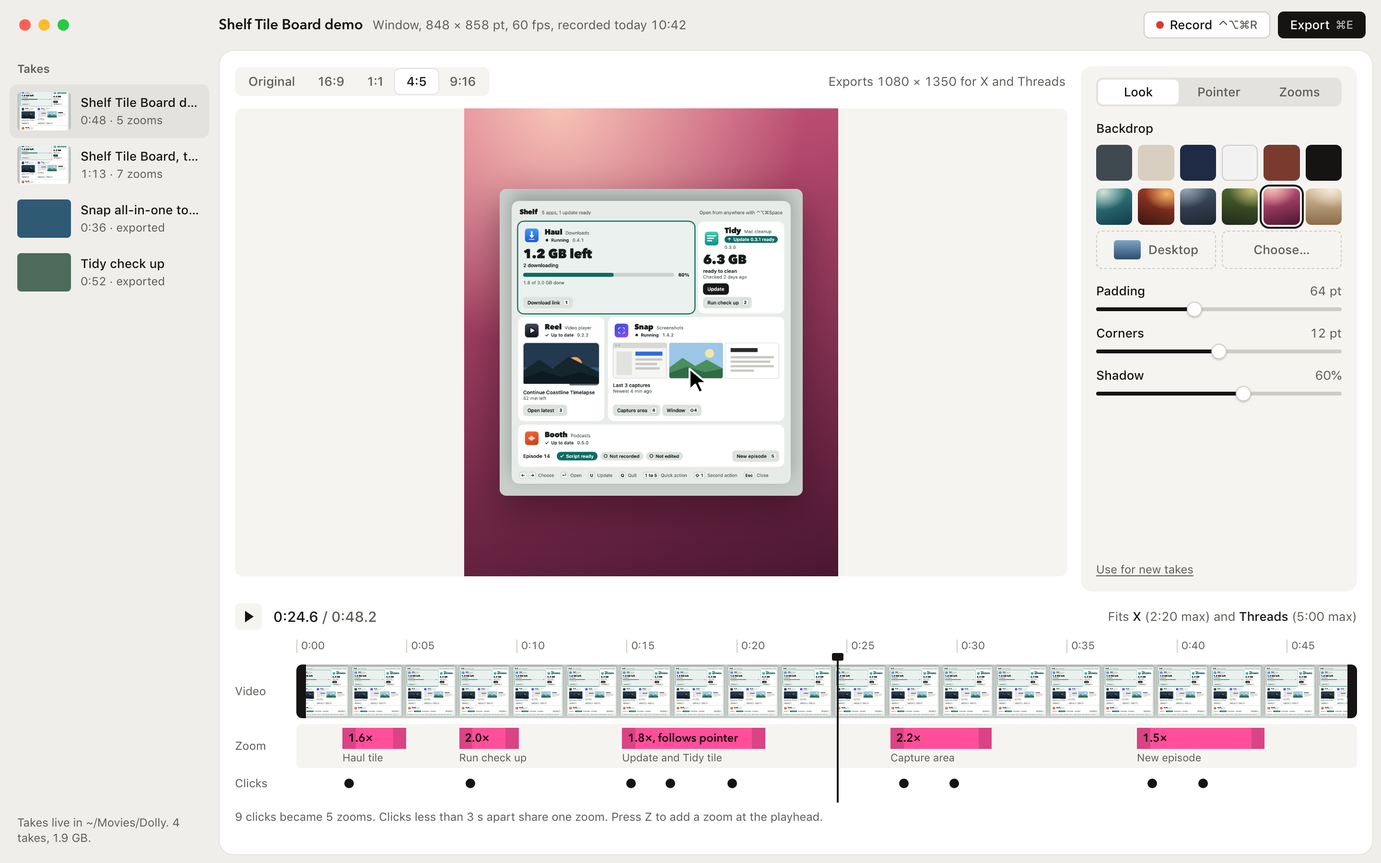
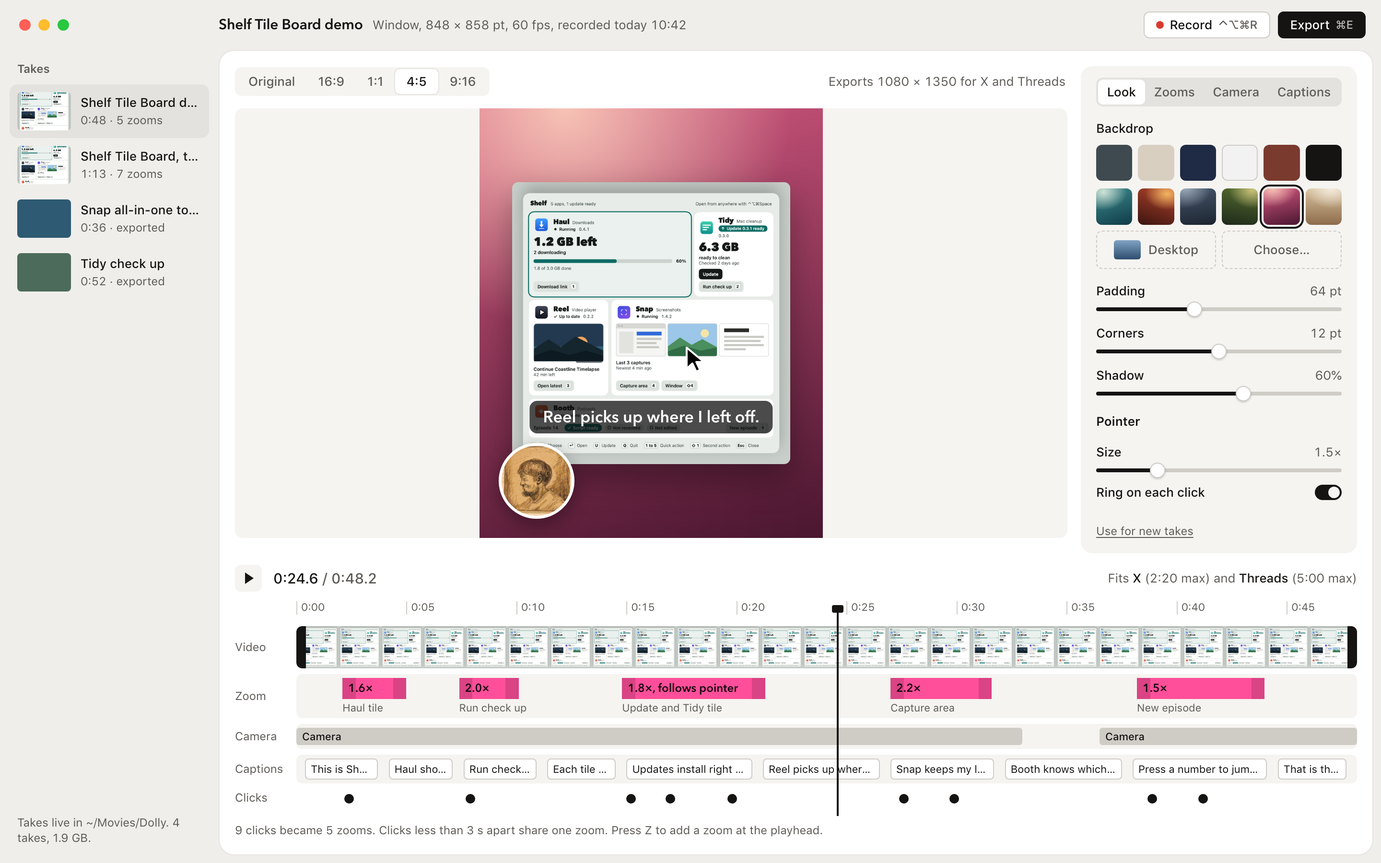
Studio pass: camera and captions in the mockups and spec

diff --git a/docs/mockup/studio/studio.html b/docs/mockup/studio/studio.html
@@ -6,7 +6,8 @@
 <style>
 /* The studio pass on direction A (spike marks). Same window, toolbar, sidebar and timeline as
    a-spike-marks.html; the shape bar gains every shape, the inspector becomes Look, Pointer and
-   Zoom tabs, and Look gets the backdrop library. ?theme=light|dark&view=look|zoom */
+   Zooms, Camera and Captions tabs, and Look gets the backdrop library and the pointer.
+   ?theme=light|dark&view=look|zoom|camera|captions */
 :root {
   --frame: #EFEEEB; --sheet: #FFFFFF; --raised: #F5F4F1; --active: #E4E2DE;
   --border: #E6E4E0; --control: #CFCCC6;
@@ -56,15 +57,15 @@ body { background: var(--frame); color: var(--text); font: 13px/18px var(--font)
 .take span { color: var(--muted); font-size: 12px; }
 .side .foot { position: absolute; left: 18px; right: 18px; bottom: 18px; color: var(--muted); font-size: 12px; line-height: 16px; }
 .sheet { position: absolute; left: 228px; top: 52px; right: 8px; bottom: 8px; background: var(--sheet); border: 1px solid var(--border); border-radius: 16px; overflow: hidden; }
-.work { position: absolute; left: 16px; top: 16px; right: 320px; height: 548px; }
+.work { position: absolute; left: 16px; top: 16px; right: 320px; height: 508px; }
 .shapes { display: flex; align-items: center; gap: 12px; height: 32px; }
 .seg { display: inline-flex; background: var(--raised); border-radius: 7px; padding: 2px; }
 .seg span { padding: 0 12px; height: 26px; line-height: 26px; border-radius: 5px; color: var(--muted); font-weight: 500; white-space: nowrap; }
 .seg span.on { background: var(--sheet); color: var(--text); box-shadow: 0 0 0 1px var(--border); }
 .shapes .note { color: var(--muted); margin-left: auto; }
 /* The stage area is 868 x 488; the output frame sits centered in it at the chosen shape. */
-.area { position: relative; margin-top: 12px; width: 868px; height: 488px; border-radius: 8px; background: var(--raised); overflow: hidden; }
-.out { position: absolute; top: 0; height: 488px; overflow: hidden; }
+.area { position: relative; margin-top: 12px; width: 868px; height: 448px; border-radius: 8px; background: var(--raised); overflow: hidden; }
+.out { position: absolute; top: 0; height: 448px; overflow: hidden; }
 .rec { position: absolute; background: center/cover no-repeat; }
 .pointer { position: absolute; width: 22px; height: 30px; }
 .scrimbox { position: absolute; box-shadow: 0 0 0 2000px var(--scrim); }
@@ -77,9 +78,9 @@ body { background: var(--frame); color: var(--text); font: 13px/18px var(--font)
 .click { position: absolute; width: 16px; height: 16px; border-radius: 50%; border: 2px solid #fff; box-shadow: 0 0 0 1px rgba(0,0,0,.4); }
 .stage-meta { position: absolute; left: 12px; bottom: 10px; color: #fff; font-size: 12px; background: rgba(0,0,0,.45); padding: 2px 8px; border-radius: 4px; }
 /* inspector */
-.insp { position: absolute; top: 16px; right: 16px; width: 288px; height: 548px; background: var(--raised); border-radius: 12px; padding: 12px 16px 16px; }
+.insp { position: absolute; top: 16px; right: 16px; width: 288px; height: 508px; background: var(--raised); border-radius: 12px; padding: 12px 16px 16px; }
 .tabs { display: flex; background: var(--active); border-radius: 7px; padding: 2px; }
-.tabs span { flex: 1; text-align: center; height: 26px; line-height: 26px; border-radius: 5px; color: var(--muted); font-weight: 500; }
+.tabs span { flex: 1 1 auto; padding: 0 6px; text-align: center; height: 26px; line-height: 26px; border-radius: 5px; color: var(--muted); font-weight: 500; }
 .tabs span.on { background: var(--sheet); color: var(--text); }
 .tabs span em { font-style: normal; color: var(--muted); font-weight: 400; margin-left: 4px; }
 .insp h3 { font: 600 16px/20px var(--display); letter-spacing: -.01em; display: flex; align-items: center; gap: 8px; margin-top: 16px; }
@@ -110,7 +111,7 @@ body { background: var(--frame); color: var(--text); font: 13px/18px var(--font)
 .link { color: var(--muted); text-decoration: underline; text-underline-offset: 2px; }
 .foot-link { position: absolute; left: 16px; right: 16px; bottom: 14px; display: flex; justify-content: space-between; color: var(--muted); font-size: 12px; }
 /* timeline (unchanged from A) */
-.tl { position: absolute; left: 16px; right: 16px; bottom: 16px; height: 248px; }
+.tl { position: absolute; left: 16px; right: 16px; bottom: 16px; height: 288px; }
 .tl-head { display: flex; align-items: center; gap: 12px; height: 32px; }
 .play { width: 28px; height: 28px; border-radius: 6px; background: var(--raised); display: grid; place-items: center; }
 .play::before { content: ""; border-left: 9px solid var(--text); border-top: 6px solid transparent; border-bottom: 6px solid transparent; margin-left: 2px; }
@@ -123,7 +124,7 @@ body { background: var(--frame); color: var(--text); font: 13px/18px var(--font)
 .track { position: relative; }
 .ruler { height: 20px; color: var(--muted); font-size: 11px; }
 .ruler span { position: absolute; top: 0; padding-left: 4px; border-left: 1px solid var(--control); height: 14px; line-height: 12px; }
-.video { height: 56px; border-radius: 6px; background: var(--raised) left center / 56px 56px repeat-x; overflow: hidden; }
+.video { height: 44px; border-radius: 6px; background: var(--raised) left center / 44px 44px repeat-x; overflow: hidden; }
 .trim { position: absolute; top: 0; bottom: 0; width: 10px; background: var(--text); }
 .trim.l { left: 0; border-radius: 6px 0 0 6px; } .trim.r { right: 0; border-radius: 0 6px 6px 0; }
 .zoom { height: 46px; background: var(--raised); border-radius: 6px; }
@@ -134,9 +135,22 @@ body { background: var(--frame); color: var(--text); font: 13px/18px var(--font)
 .mark .ramp.in { left: 0; } .mark .ramp.out { right: 0; }
 .mark span { position: relative; }
 .mark em { position: absolute; left: 0; top: 24px; font: 400 11px/14px var(--font); color: var(--muted); font-style: normal; }
-.clicks { height: 20px; }
+.clicks { height: 18px; }
+.cam { height: 26px; background: var(--raised); border-radius: 6px; }
+.cam b { position: absolute; top: 4px; height: 18px; left: calc(var(--a) / var(--dur) * 100%); width: calc((var(--b) - var(--a)) / var(--dur) * 100%); background: var(--control); color: var(--text); border-radius: 3px; font: 500 11px/18px var(--font); padding: 0 6px; overflow: hidden; white-space: nowrap; }
+.cam b.small { opacity: .55; }
+.cap { height: 30px; background: var(--raised); border-radius: 6px; }
+.cap b { position: absolute; top: 4px; height: 22px; left: calc(var(--a) / var(--dur) * 100%); width: calc((var(--b) - var(--a)) / var(--dur) * 100% - 2px); background: var(--sheet); border: 1px solid var(--control); border-radius: 4px; font: 400 11px/20px var(--font); padding: 0 5px; overflow: hidden; white-space: nowrap; text-overflow: ellipsis; color: var(--text); }
+.cap b.on { border: 2px solid var(--text); line-height: 18px; }
+.bubble { position: absolute; background: center 30% / cover no-repeat; border: 3px solid #fff; box-shadow: 0 6px 18px rgba(0,0,0,.35); }
+.caption { position: absolute; left: 50%; transform: translateX(-50%); padding: 6px 14px; border-radius: 8px; background: rgba(12,12,12,.74); color: #fff; font: 600 17px/22px var(--display); white-space: nowrap; }
+.corners { display: grid; grid-template-columns: 22px 22px; gap: 4px; }
+.corners i { width: 22px; height: 16px; border-radius: 3px; border: 1px solid var(--control); background: var(--sheet); }
+.corners i.on { background: var(--text); border-color: var(--text); }
+.field { margin-top: 8px; padding: 6px 8px; min-height: 52px; border-radius: 6px; border: 1px solid var(--control); background: var(--sheet); line-height: 18px; }
+.insp h4 { font: 600 13px/18px var(--font); margin-top: 18px; }
 .clicks i { position: absolute; top: 5px; left: calc(var(--t) / var(--dur) * 100%); width: 10px; height: 10px; margin-left: -5px; border-radius: 50%; background: var(--text); }
-.playhead { position: absolute; top: -150px; bottom: -4px; left: calc(var(--p) / var(--dur) * 100%); width: 2px; margin-left: -1px; background: var(--text); }
+.playhead { position: absolute; top: -214px; bottom: -4px; left: calc(var(--p) / var(--dur) * 100%); width: 2px; margin-left: -1px; background: var(--text); }
 .playhead::before { content: ""; position: absolute; top: -2px; left: -5px; width: 12px; height: 8px; background: var(--text); border-radius: 2px; }
 .hint { margin-top: 10px; color: var(--muted); font-size: 12px; }
 </style>
@@ -180,6 +194,10 @@ body { background: var(--frame); color: var(--text); font: 13px/18px var(--font)
       <div class="track video ft-strip"><i class="trim l"></i><i class="trim r"></i></div>
       <span class="lname">Zoom</span>
       <div class="track zoom" id="marks"></div>
+      <span class="lname">Camera</span>
+      <div class="track cam" id="cam"></div>
+      <span class="lname">Captions</span>
+      <div class="track cap" id="caps"></div>
       <span class="lname">Clicks</span>
       <div class="track clicks">
         <i style="--t:2.4"></i><i style="--t:7.9"></i><i style="--t:15.2"></i><i style="--t:17.0"></i><i style="--t:19.8"></i><i style="--t:27.6"></i><i style="--t:29.9"></i><i style="--t:38.9"></i><i style="--t:41.2"></i>
@@ -193,85 +211,133 @@ body { background: var(--frame); color: var(--text); font: 13px/18px var(--font)
 <script>
 const q = new URLSearchParams(location.search);
 const theme = q.get('theme') || 'light';
-const view = q.get('view') || 'look';
+const view = q.get('view') || 'look';   // look | zoom | camera | captions
 document.documentElement.dataset.theme = theme;
 const FOOT = `../assets/footage-${theme}.png`, FW = 1696, FH = 1716;
+// Stand-in face for the camera: "Portrait of a Smiling Man", Theo van Doesburg, 1905, public domain.
+const FACE = '../assets/portrait-of-a-smiling-man.jpg';
 
-// Look: 4:5 on the Rose backdrop, playing at 0:24.6. Zoom: 16:9 on Harbor, Aim mode on zoom 2.
-const look = view === 'look';
-const shape = look ? '4:5' : '16:9';
-const playhead = look ? 24.6 : 8.6;
-const backdrop = look ? 'rose' : 'harbor';
+const V = {
+  look:     { shape: '4:5',  t: 24.6, bd: 'rose',   tab: 'Look' },
+  zoom:     { shape: '16:9', t: 8.6,  bd: 'harbor', tab: 'Zooms' },
+  camera:   { shape: '16:9', t: 12.4, bd: 'slate',  tab: 'Camera' },
+  captions: { shape: '9:16', t: 12.4, bd: 'moss',   tab: 'Captions' },
+}[view];
+// The camera and captions are on for this take; Aim mode shows the bare recording.
+const showCamera = view !== 'zoom';
+const showCaption = view !== 'zoom';
 const shapes = { 'Original': [848, 858], '16:9': [16, 9], '1:1': [1, 1], '4:5': [4, 5], '9:16': [9, 16] };
 const sizes = { 'Original': '1696 × 1716', '16:9': '1920 × 1080', '1:1': '1080 × 1080', '4:5': '1080 × 1350', '9:16': '1080 × 1920' };
-document.getElementById('shapes').innerHTML = Object.keys(shapes).map(s => `<span class="${s === shape ? 'on' : ''}">${s}</span>`).join('');
-document.getElementById('shape-note').textContent = `Exports ${sizes[shape]} for X and Threads`;
-document.getElementById('time').innerHTML = `${look ? '0:24.6' : '0:08.6'} <span>/ 0:48.2</span>`;
-document.getElementById('playhead').style.setProperty('--p', playhead);
+const fmt = t => `${Math.floor(t / 60)}:${(t % 60).toFixed(1).padStart(4, '0')}`;
+document.getElementById('shapes').innerHTML = Object.keys(shapes).map(x => `<span class="${x === V.shape ? 'on' : ''}">${x}</span>`).join('');
+document.getElementById('shape-note').textContent = `Exports ${sizes[V.shape]} for X and Threads`;
+document.getElementById('time').innerHTML = `${fmt(V.t)} <span>/ 0:48.2</span>`;
+document.getElementById('playhead').style.setProperty('--p', V.t);
 document.getElementById('ruler').innerHTML = [0,5,10,15,20,25,30,35,40,45].map(t => `<span style="left:calc(${t}/48.2*100%)">0:${String(t).padStart(2,'0')}</span>`).join('');
 const marks = [[2.1,5.0,'1.6×','Haul tile'],[7.4,10.1,'2.0×','Run check up'],[14.8,21.3,'1.8×, follows pointer','Update and Tidy tile'],[27.0,31.6,'2.2×','Capture area'],[38.2,44.0,'1.5×','New episode']];
-document.getElementById('marks').innerHTML = marks.map((m, i) => `<div class="mark${!look && i === 1 ? ' on' : ''}" style="--a:${m[0]};--b:${m[1]};--r:.6"><i class="ramp in"></i><i class="ramp out"></i><span>${m[2]}</span><em>${m[3]}</em></div>`).join('');
+document.getElementById('marks').innerHTML = marks.map((m, i) => `<div class="mark${view === 'zoom' && i === 1 ? ' on' : ''}" style="--a:${m[0]};--b:${m[1]};--r:.6"><i class="ramp in"></i><i class="ramp out"></i><span>${m[2]}</span><em>${m[3]}</em></div>`).join('');
+// Camera on for the whole take except 33.0 to 36.5, which the owner hid.
+document.getElementById('cam').innerHTML = `<b style="--a:0;--b:33.0">Camera</b><b style="--a:36.5;--b:48.2">Camera</b>`;
+// Illustrative narration for the Shelf demo, as the transcriber would split it.
+const caps = [[0.4,3.8,'This is Shelf, my launcher for every app.'],[4.2,7.2,'Haul shows what is downloading.'],[7.6,11.0,'Run check up tells Tidy to scan again.'],[11.4,14.6,'Each tile has its own quick actions.'],[15.0,20.8,'Updates install right from the board.'],[21.2,26.6,'Reel picks up where I left off.'],[27.0,31.8,'Snap keeps my last three captures.'],[32.2,37.6,'Booth knows which episode is next.'],[38.0,44.2,'Press a number to jump to any app.'],[44.6,47.8,'That is the whole board.']];
+const current = caps.find(c => V.t >= c[0] && V.t <= c[1]);
+document.getElementById('caps').innerHTML = caps.map(c => `<b class="${view === 'captions' && c === current ? 'on' : ''}" style="--a:${c[0]};--b:${c[1]}">${c[2]}</b>`).join('');
 
-// Output frame in the 868 x 488 area.
+// Output frame in the 868 x 448 stage area.
 const area = document.getElementById('area');
-const [sw, sh] = shapes[shape];
-const H = 488, W = Math.round(H * sw / sh);
+const [sw, sh] = shapes[V.shape];
+const H = 448, W = Math.min(868, Math.round(H * sw / sh));
+const ox = (868 - W) / 2;
 const out = document.createElement('div');
 out.className = 'out';
-out.style.cssText = `left:${(868 - W) / 2}px;width:${W}px;background:var(--bd-${backdrop})`;
+out.style.cssText = `left:${ox}px;width:${W}px;background:var(--bd-${V.bd})`;
 area.appendChild(out);
-// Padding 64 pt at 1080 px on the shorter side, corners 12 pt, shadow 60.
-const px = Math.min(W, H) / 1080, pad = 64 * px * 1.6;
-const s = Math.min((W - 2 * pad) / FW, (H - 2 * pad) / FH);
-const rw = FW * s, rh = FH * s, rx = (W - rw) / 2, ry = (H - rh) / 2;
+const short = Math.min(W, H), px = short / 1080, pad = 64 * px * 1.6;
+const sc = Math.min((W - 2 * pad) / FW, (H - 2 * pad) / FH);
+const rw = FW * sc, rh = FH * sc, rx = (W - rw) / 2, ry = (H - rh) / 2;
+const rec = `<div class="rec ft" style="left:${rx}px;top:${ry}px;width:${rw}px;height:${rh}px;border-radius:${12 * px * 1.6}px;box-shadow:0 ${rw*.05}px ${rw*.12}px rgba(0,0,0,.35)"></div>`;
+const pointer = `<svg class="pointer" style="left:${rx + rw * .62}px;top:${ry + rh * .58}px" viewBox="0 0 22 30"><path d="M2 2 L2 24 L8 18.5 L12 27 L16 25.3 L12 17 L20 17 Z" fill="#000" stroke="#fff" stroke-width="2" stroke-linejoin="round"/></svg>`;
 
-if (look) {
-  // Play mode inside zoom 4 (2.2x on Capture area) would crop; at 0:24.6 the camera is between zooms, at 1x.
-  out.innerHTML = `<div class="rec ft" style="left:${rx}px;top:${ry}px;width:${rw}px;height:${rh}px;border-radius:${12 * px * 1.6}px;box-shadow:0 ${rw*.05}px ${rw*.12}px rgba(40,6,20,.45)"></div>
-    <svg class="pointer" style="left:${rx + rw * .62}px;top:${ry + rh * .58}px" viewBox="0 0 22 30"><path d="M2 2 L2 24 L8 18.5 L12 27 L16 25.3 L12 17 L20 17 Z" fill="#000" stroke="#fff" stroke-width="2" stroke-linejoin="round"/></svg>`;
-} else {
-  // Aim mode: the whole recording at 1x with the scrim outside zoom 2's view and the spike corners.
+if (view === 'zoom') {
   const tx = .75, ty = .37, z = 2.0, vw = W / z, vh = H / z;
-  // Clamped to the recording, the way the engine clamps: a view wider than it centers on it.
   const clamp = (c, v, lo, len) => v >= len ? lo + len / 2 : Math.min(Math.max(c, lo + v / 2), lo + len - v / 2);
   const cx = clamp(rx + tx * rw, vw, rx, rw), cy = clamp(ry + ty * rh, vh, ry, rh);
-  const L = (868 - W) / 2 + cx - vw / 2, T = cy - vh / 2;
-  out.innerHTML = `<div class="rec ft" style="left:${rx}px;top:${ry}px;width:${rw}px;height:${rh}px;border-radius:${12 * px * 1.6}px;box-shadow:0 ${rw*.04}px ${rw*.1}px rgba(0,0,0,.35)"></div>`;
+  const L = ox + cx - vw / 2, T = cy - vh / 2;
+  out.innerHTML = rec;
   area.insertAdjacentHTML('beforeend', `<div class="scrimbox" style="left:${L}px;top:${T}px;width:${vw}px;height:${vh}px"></div>
     <div class="tape-label" style="left:${L}px;top:${T - 30}px">2.0×  Run check up</div>
     <div class="spike" style="position:absolute;left:${L}px;top:${T}px;width:${vw}px;height:${vh}px"><i></i><i></i><i></i><i></i></div>
-    <div class="click" style="left:${(868 - W) / 2 + rx + tx * rw - 8}px;top:${ry + ty * rh - 8}px"></div>
+    <div class="click" style="left:${ox + rx + tx * rw - 8}px;top:${ry + ty * rh - 8}px"></div>
     <div class="stage-meta num">Drag inside the corners to re-aim. Drag a corner to change depth.</div>`);
+} else {
+  let html = rec + pointer;
+  if (showCamera) {
+    // 22% of the short side, bottom-left, inset by the padding.
+    // 9:16 here keeps the camera top-left, so the caption has the band under the recording.
+    const d = Math.round(short * .22), m = Math.round(pad * .6), top = view === 'captions' ? m : H - d - m;
+    html += `<div class="bubble" style="width:${d}px;height:${d}px;left:${m}px;top:${top}px;border-radius:50%;background-image:url(${FACE})"></div>`;
+  }
+  if (showCaption && current) {
+    // The rule from the spec: a bottom caption moves above a bottom camera.
+    const d = Math.round(short * .22), m = Math.round(pad * .6);
+    const bottom = view === 'captions' ? Math.round((H - ry - rh) / 2 - 30) : m + d + 10;
+    html += `<div class="caption" style="bottom:${bottom}px;font-size:${view === 'captions' ? 15 : 17}px;white-space:${view === 'captions' ? 'normal' : 'nowrap'};width:${view === 'captions' ? Math.round(W * .82) + 'px' : 'auto'};text-align:center">${current[2]}</div>`;
+  }
+  out.innerHTML = html;
 }
 
 const slider = (label, value, frac, ticks) => `<div class="group"><label>${label}<span class="num">${value}</span></label>
   <div class="slider"><b style="width:${frac * 100}%"></b><i style="left:${frac * 100}%"></i></div>${ticks ? `<div class="ticks num">${ticks.map(t => `<span>${t}</span>`).join('')}</div>` : ''}</div>`;
-const tabs = on => `<div class="tabs">${['Look', 'Pointer', 'Zoom'].map(t => `<span class="${t === on ? 'on' : ''}">${t === 'Zoom' ? 'Zooms' : t}</span>`).join('')}</div>`;
+const toggle = (label, on = true) => `<div class="row"><label>${label}</label><span class="toggle${on ? '' : ' off'}"></span></div>`;
+const seg = (items, on) => `<div class="full"><div class="seg">${items.map(i => `<span class="${i === on ? 'on' : ''}">${i}</span>`).join('')}</div></div>`;
+const tabs = on => `<div class="tabs">${['Look', 'Zooms', 'Camera', 'Captions'].map(t => `<span class="${t === on ? 'on' : ''}">${t}</span>`).join('')}</div>`;
 const flats = ['#3E4A4F', '#D9CFC0', '#1F2A44', '#F2F2F2', '#7A3B2E', '#151413'];
 const grads = ['harbor', 'ember', 'slate', 'moss', 'rose', 'sand'];
 const insp = document.getElementById('insp');
-if (look) {
-  insp.innerHTML = `${tabs('Look')}
+const panels = {
+  look: () => `${tabs('Look')}
     <div class="group"><label>Backdrop</label>
       <div class="bd">${flats.map(c => `<i class="${c === '#F2F2F2' ? 'light' : ''}" style="background:${c}"></i>`).join('')}</div>
-      <div class="bd">${grads.map(g => `<i class="${g === backdrop ? 'on' : ''}" style="background:var(--bd-${g})"></i>`).join('')}</div>
+      <div class="bd">${grads.map(g => `<i class="${g === V.bd ? 'on' : ''}" style="background:var(--bd-${g})"></i>`).join('')}</div>
       <div class="pics"><span class="pic"><span class="mini"></span>Desktop</span><span class="pic">Choose…</span></div>
     </div>
     ${slider('Padding', '64 pt', 64 / 160)}
     ${slider('Corners', '12 pt', 12 / 24)}
     ${slider('Shadow', '60%', .6)}
-    <div class="foot-link"><span class="link">Use for new takes</span></div>`;
-} else {
-  insp.innerHTML = `${tabs('Zoom')}
+    <h4>Pointer</h4>
+    ${slider('Size', '1.5×', .25)}
+    ${toggle('Ring on each click')}
+    <div class="foot-link"><span class="link">Use for new takes</span></div>`,
+  zoom: () => `${tabs('Zooms')}
     <h3><span class="swatch-tape"></span>Zoom 2 of 5</h3>
     <p class="sub num">0:07.4 to 0:10.1, 2.7 s. From your click at 0:07.9.</p>
-    <div class="full"><div class="seg"><span class="on">Hold on the click</span><span>Follow pointer</span></div></div>
+    ${seg(['Hold on the click', 'Follow pointer'], 'Hold on the click')}
     ${slider('Depth', '2.0×', .5, ['1×', '2×', '3×'])}
     ${slider('Move in', '0.6 s', (0.6 - .2) / 1.3)}
     ${slider('Move out', '0.5 s', (0.5 - .2) / 1.3)}
     <div class="row" style="margin-top:14px"><span class="link">Remove this zoom</span><span class="kbd">⌫</span></div>
-    <div class="foot-link"><span>Tab selects the next zoom</span></div>`;
-}
+    <div class="foot-link"><span>Tab selects the next zoom</span></div>`,
+  camera: () => `${tabs('Camera')}
+    ${toggle('Show camera')}
+    ${seg(['Circle', 'Rounded'], 'Circle')}
+    ${slider('Size', '22%', (22 - 10) / 30, ['10%', '25%', '40%'])}
+    <div class="row" style="margin-top:12px"><label>Corner</label><div class="corners"><i class="${view === 'captions' ? 'on' : ''}"></i><i></i><i class="${view === 'captions' ? '' : 'on'}"></i><i></i></div></div>
+    ${toggle('Border')}
+    ${toggle('Shrink during zooms')}
+    ${toggle('Mirror')}
+    <div class="foot-link"><span>Drag the camera on the stage to move it</span></div>`,
+  captions: () => `${tabs('Captions')}
+    ${seg(['From your voice', 'Typed'], 'From your voice')}
+    <p class="sub" style="margin-top:6px">English, transcribed on this Mac.</p>
+    <div class="group"><label>Caption 4 of 10<span class="num">0:11.4 to 0:14.6</span></label>
+      <div class="field">Each tile has its own quick actions.</div></div>
+    ${seg(['Bottom', 'Middle', 'Top'], 'Bottom')}
+    ${slider('Size', '15 pt', (15 - 10) / 14)}
+    ${toggle('Save an .srt file with each export', false)}
+    <p class="sub" style="margin-top:10px">Captions move above the camera when both sit at the bottom.</p>
+    <div class="foot-link"><span class="link">Transcribe again</span><span>Return splits a caption</span></div>`,
+};
+insp.innerHTML = panels[view]();
 document.querySelectorAll('.ft').forEach(e => e.style.backgroundImage = `url(${FOOT})`);
 document.querySelectorAll('.ft-strip').forEach(e => e.style.backgroundImage = `url(${FOOT})`);
 </script>

diff --git a/docs/superpowers/specs/2026-10-29-dolly-studio.md b/docs/superpowers/specs/2026-10-29-dolly-studio.md
@@ -2,15 +2,15 @@
 
 Date: 2026-10-29. Status: design for review, no code. Adds to `2026-10-26-dolly-design.md`; where the two disagree, this one wins.
 
-The owner asked for a studio editor after a take, with FocuSee's editor as the reference. Dolly already has the editor's frame (spec section 6). This pass makes it a studio by pulling M2 (every shape) and the backdrop half of M3 forward, and by regrouping the inspector. Mockups: `docs/mockup/studio/look-light.png`, `look-dark.png`, `zoom-light.png`, `zoom-dark.png` (source `studio.html`).
+The owner asked for a studio editor after a take, with FocuSee's editor as the reference, then for a webcam and captions that stay editable after recording. Dolly already has the editor's frame (spec section 6). This pass makes it a studio by pulling M2 (every shape), the backdrop half of M3 and the microphone forward, adding the camera and captions, and regrouping the inspector. Mockups in `docs/mockup/studio/`, light and dark: `look`, `zoom`, `camera`, `captions` (source `studio.html`; the face in the camera is a stand-in, "Portrait of a Smiling Man" by Theo van Doesburg, 1905, public domain).
 
 ## What changes
 
 1. **Shape bar above the stage:** Original, 16:9, 1:1, 4:5, 9:16. Original is the recording's own aspect, long side 1920 px. The note beside it names the export size ("Exports 1080 × 1350 for X and Threads"). The stage shows the output frame at that shape, centered in the stage area on the raised tone. Zooms are unchanged by the shape (spec 5.3, including "In tall shapes").
-2. **Inspector tabs:** Look, Pointer, Zooms, as one segmented control at the top of the 288 pt panel. Selecting a zoom on the stage or the timeline switches to Zooms; Esc or a click on empty stage goes back to the tab that was open before.
-   - **Look:** Backdrop, Padding, Corners, Shadow, and "Use for new takes".
-   - **Pointer:** Size, Smooth path, Ring on each click, Hide when still (unchanged controls, moved).
+2. **Inspector tabs:** Look, Zooms, Camera, Captions, as one segmented control at the top of the 288 pt panel. Selecting a zoom, the camera or a caption on the stage or the timeline switches to its tab; Esc or a click on empty stage goes back to the tab that was open before.
+   - **Look:** Backdrop, Padding, Corners, Shadow, then Pointer: Size, Ring on each click, Smooth path, Hide when still. "Use for new takes" at the foot.
    - **Zooms:** the zoom inspector of spec 6.4. With no zoom selected it shows the count and "Select a zoom on the timeline or press Z to add one at the playhead."
+   - **Camera** and **Captions:** sections 6 and 7 below.
 3. **Backdrop library** (Look):
    - Six flat colors: the five of M1 plus near-black `#151413`.
    - Six gradients drawn by Dolly: Harbor, Ember, Slate, Moss, Rose, Sand. Each is a linear gradient with one soft radial light, made with Core Image so preview and export match. Dolly's own colors, not copied from FocuSee or from macOS wallpapers.
@@ -19,19 +19,45 @@ The owner asked for a studio editor after a take, with FocuSee's editor as the r
 4. **Sliders with values:** Padding 0 to 160 pt, Corners 0 to 24 pt, Shadow 0 to 100 % (replaces the on and off toggle; an old take's `true` reads as 60 %, `false` as 0 %).
 5. **Export sheet:** the plates of spec 7 now include Original. The current shape is checked.
 
+6. **Timeline lanes:** Video, Zoom, Camera, Captions, Clicks. The stage gives up 40 pt of height to the timeline (stage area 868 × 448).
+
+## Camera (webcam)
+
+- **Recording:** the Record bar gets Camera and Microphone switches, both off by default, each with a device menu. With Camera on, a small mirrored preview floats next to the bar until Record. The camera is written to `camera.mov` in the take folder (H.264, 1280 × 720 or the device's closest size, 30 fps), on the same host clock as the screen master, so the two line up without a sync step. It is never drawn into the screen recording.
+- **Permission:** Camera access is asked the first time the switch is turned on, with Snap's first-run pattern: why, one button, then a hint if it stays denied. Dolly never opens the camera unless the switch is on.
+- **Camera tab:** Show camera; Circle or Rounded; Size 10 to 40 % of the output's short side (22 % default); Corner (four-way picker) or drag on the stage to any spot; Border (3 pt white); Shrink during zooms (to 60 % over the zoom's own move in and move out); Mirror (on by default, because people expect to see themselves mirrored).
+- **Camera lane:** one bar for where the camera shows. Drag on the lane to hide a stretch; the gap's ends drag like a zoom's ends. Hiding and showing cut, no fade.
+- **Every shape:** the bubble keeps its corner and its size relative to the short side, so 16:9 and 9:16 need no separate placement. A spot placed by dragging is stored relative to the output frame.
+
+## Captions
+
+- **Source:** "From your voice" transcribes the microphone track on this Mac with Apple's SpeechAnalyzer and SpeechTranscriber (macOS 26 and later). macOS may download the language model once; Dolly itself makes no network request. "Typed" starts an empty lane for captions the owner types (`C` adds one at the playhead).
+- **Splitting:** the transcriber's phrases become captions of at most two lines and about 42 characters a line, split at sentence ends and pauses over 0.4 s. Return in the caption field splits at the cursor; Delete at the start joins with the one before.
+- **Captions tab:** the selected caption's text and times; Bottom, Middle or Top; Size 10 to 24 pt at 1080 px; "Save an .srt file with each export"; "Transcribe again" (asks first when captions were edited).
+- **Style:** Avenir Next Demi Bold, white on a near-black pill at 74 %, centered, the same in every shape. A bottom caption moves above a bottom camera instead of covering it.
+- **Captions lane:** one chip per caption; drag the middle to move, the ends to retime.
+- **Export:** captions are drawn into the video (X and Threads autoplay muted), and an `.srt` with the same name when the switch is on.
+
+## Spikes before the build
+
+- **S3, speech permission:** whether SpeechTranscriber on macOS 27 needs the Speech Recognition permission (`NSSpeechRecognitionUsageDescription`) or only the model download. The owner runs a five-minute check with a debug build, like S1 and S2.
+- **S4, camera and screen clocks:** start both, clap once on camera while clicking, check the offset in the take. Under one frame passes.
+
 ## What stays
 
 Toolbar, takes sidebar, the spike-tape timeline, Aim mode with its corners, the corner card after a take, the tokens in spec 10.4, and every keyboard command in 6.2 and 6.3.
 
 ## Left out on purpose
 
-FocuSee's camera, captions, audio and effects tabs, and its icon rail: Dolly has none of those features, and an empty rail would only point at them. No 4:3 shape (X and Threads crop it like 1:1 or 4:5).
+FocuSee's icon rail, its effects and its AI tools: the four tabs carry everything Dolly does. No 4:3 shape (X and Threads crop it like 1:1 or 4:5). No system audio in this pass (M3 keeps it). No word-by-word highlight in captions.
 
 ## Data
 
 - `Look.Background` gains `.gradient(id: String)` and `.picture(file: String, blur: Double)`. `shadow` becomes a `Double` (0 to 1) with the migration above. Take files stay version 1 with the new cases optional on decode.
 - `ShapePreset` gains `.original`, sized from `Take.size` with the long side at 1920 px and both sides even.
 - The take remembers its last shape (`Take.shape`, default 16:9) so the stage opens where the owner left it.
+- `Take.camera`: `{ file, visible: [ranges], shape, size, corner | point, border, shrinkDuringZooms, mirror }`, absent when the take has no camera.
+- `Take.captions`: `{ source: voice | typed, locale, position, size, saveSRT, items: [{ id, start, end, text }] }`. The microphone track is `audio.m4a` in the take folder.
 
 ## Motion (checked against `app-updates/docs/motion-gate.md`)
 
@@ -41,6 +67,9 @@ FocuSee's camera, captions, audio and effects tabs, and its icon rail: Dolly has
 | Switching shapes | Tens per session | Rejected. The stage re-renders at once (as in 10.6). |
 | Picking a backdrop | Tens per session | Rejected. Instant; the stage is the feedback. |
 | Blur row appearing for pictures | A few per session | Rejected. It appears with the choice that needs it. |
+| Camera shown, hidden or moved to a corner | A few per session | Rejected. Instant in the editor; in the clip it cuts. |
+| Shrink during zooms | Content | Not UI motion: it rides the zoom's own move in and out. |
+| Caption changes | Content | Cut between captions; no fade or typewriter. |
 
 No new motion.
 
@@ -49,3 +78,5 @@ No new motion.
 1. Gradient backdrops reverse decision 6 of the first spec (flat only). They are clip content, not app chrome, so the app keeps its flat look.
 2. The takes sidebar stays. Hiding it (View menu, `⌃⌘S`) is cheap to add if the stage needs more room.
 3. Original as a fifth shape.
+4. Camera and captions reverse the first spec's non-goals (webcam overlay, captions). The microphone moves from M3 into this pass, because captions need it.
+5. Captions are drawn into the video by default; the .srt is opt-in.
